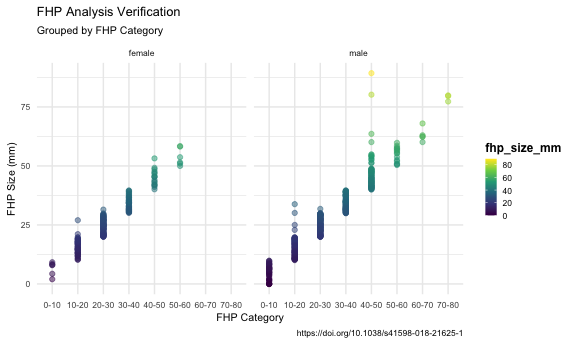
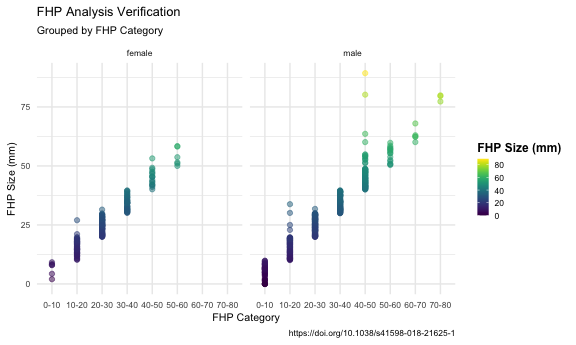
Final Commit

diff --git a/p8105_mtp_tk2886.md b/p8105_mtp_tk2886.md
@@ -324,6 +324,10 @@ eop_dfc %>%
         legend.title = element_text(size = 9, face = "bold"),
         legend.key.size = unit(0.3, 'cm'),
         text = element_text(size = 8)) +
+  viridis::scale_color_viridis(
+    name = "FHP Size (mm)", 
+    discrete = FALSE
+  ) + 
   facet_grid(~sex)
 ```
 
@@ -344,6 +348,13 @@ eop_dfc %>%
     x = "EOP Category",
     y = "EOP Size (mm)",
     caption = "https://doi.org/10.1038/s41598-018-21625-1") +
+  theme(legend.position = "right",
+        legend.title = element_text(size = 9, face = "bold"),
+        legend.key.size = unit(0.3, 'cm')) +
+   viridis::scale_color_viridis(
+    name = "EOP Size (mm)", 
+    discrete = FALSE
+  ) + 
   facet_grid(~sex)
 ```
 
